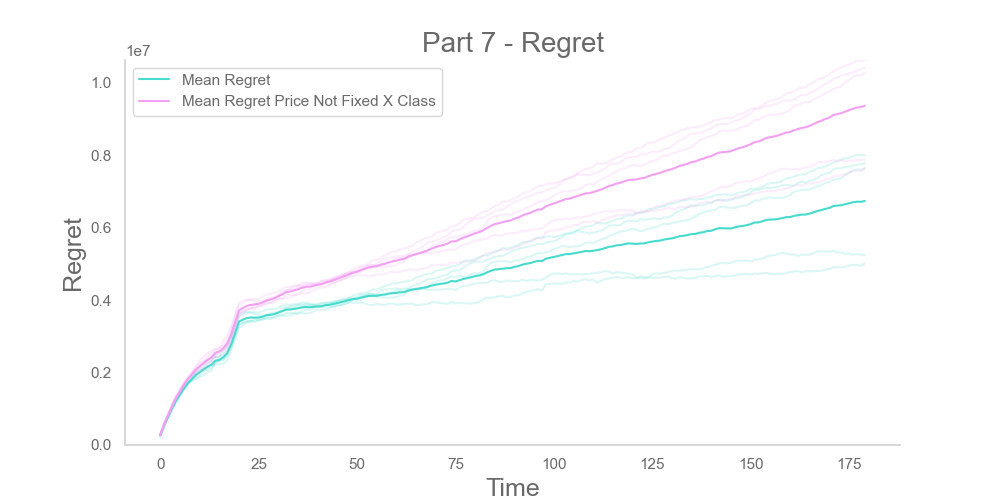
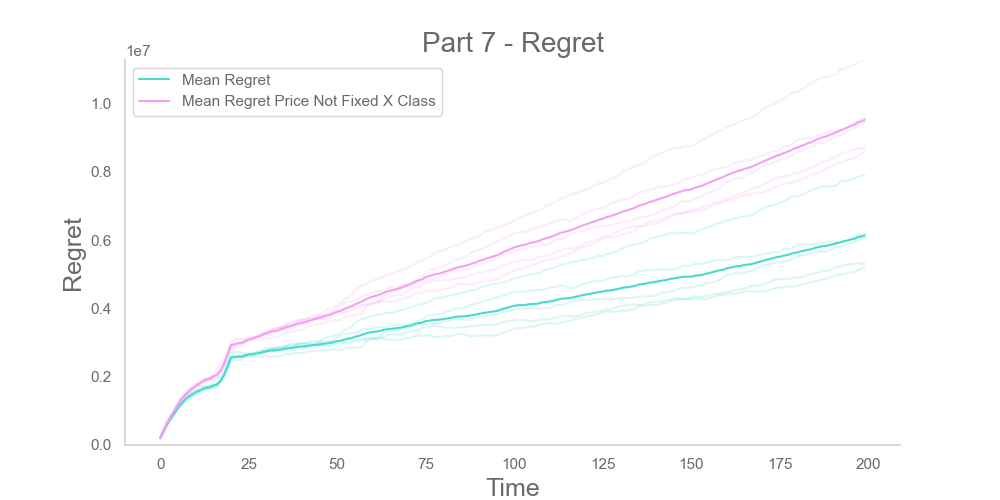
PART 7 - BINOMIAL

diff --git a/project/part_7_binomial/Testing_Env_7.py b/project/part_7_binomial/Testing_Env_7.py
@@ -18,7 +18,7 @@ def test_part7(n_experiments=10,
                artificial_noise_ADV=5,
                artificial_noise_CR=0.05,
                results_chart_path='other_files/testing_part7_regrets.png',
-               results_chart_title='Part 7 - Regret'):
+               results_chart_title='Part 7 BINOMIAL - Regret'):
     # one product to sell
     product = Product(product_config=product_config)
 
@@ -70,18 +70,13 @@ def test_part7(n_experiments=10,
         results = pool.map(execute_experiment, args, chunksize=1)
 
     regret_per_experiment = []
-    regret_notfixed_per_experiment = []
     final_loss_per_experiment = []
-    final_loss_per_experiment_notfixed = []
 
     for result in results:
-        regret_notfixed_per_experiment.append(result[1])
-        regret_per_experiment.append(result[0])
-        final_loss_per_experiment.append(sum(result[0]))
-        final_loss_per_experiment_notfixed.append(sum(result[1]))
+        regret_per_experiment.append(result)
+        final_loss_per_experiment.append(sum(result))
 
     print('\n\nFINAL LOSS:', np.mean(final_loss_per_experiment))
-    print('\n\nFINAL NOT FIXED LOSS:', np.mean(final_loss_per_experiment_notfixed))
     print('\n\nMEAN LOSS:', np.mean(final_loss_per_experiment) / n_days)
 
     plt.title(results_chart_title, fontsize=20)
@@ -90,13 +85,9 @@ def test_part7(n_experiments=10,
         plt.plot(np.cumsum(regret), alpha=0.2, c='C2')
     plt.plot(np.cumsum(np.mean(regret_per_experiment, axis=0)), c='C2',
              label='Mean Regret')
-    for regret in regret_notfixed_per_experiment:
-        plt.plot(np.cumsum(regret), alpha=0.2, c='C1')
-    plt.plot(np.cumsum(np.mean(regret_notfixed_per_experiment, axis=0)), c='C1',
-             label='Mean Regret Price Not Fixed X Class')
     plt.xlabel('Time')
     plt.ylabel('Regret')
-    plt.ylim([0, np.max([np.max(final_loss_per_experiment), np.max(final_loss_per_experiment_notfixed)])])
+    plt.ylim([0, np.max(final_loss_per_experiment)])
     plt.legend()
     plt.savefig(results_chart_path)
     plt.show()
@@ -138,4 +129,4 @@ def execute_experiment(args):
 
 
 if __name__ == '__main__':
-    test_part7(n_experiments=1)
+    test_part7(n_experiments=5)

diff --git a/project/part_2/GPTS_Learner.py b/project/part_2/GPTS_Learner.py
@@ -8,12 +8,12 @@ from project.dia_pckg.plot_style.cb91visuals import *
 
 class GPTS_Learner(Learner):
 
-    def __init__(self, n_arms, arms):
-        super().__init__(n_arms)
+    def __init__(self, arms):
+        super().__init__(len(arms))
 
         alpha = 15.0
         self.arms = arms
-        self.means = np.zeros(n_arms)
+        self.means = np.zeros(len(arms))
         self.sigmas = np.full(self.means.shape, alpha)
         self.pulled_arms = []
 
@@ -39,9 +39,9 @@ class GPTS_Learner(Learner):
         self.update_observations(pulled_arm, reward)
         self.update_model()
 
-    def pull_arm(self):
-        sampled_values = np.random.normal(self.means, self.sigmas)
-        return np.argmax(sampled_values)
+    def pull_arm(self, arm):
+        sampled_value = np.random.normal(self.means[arm], self.sigmas[arm])
+        return sampled_value
 
     def pull_arm_sequence(self):
         sampled_values = np.random.normal(self.means, self.sigmas)

diff --git a/project/part_7_normal/Testing_Env_7.py b/project/part_7_normal/Testing_Env_7.py
@@ -16,10 +16,10 @@ from project.part_7_normal.FixedPriceBudgetAllocator import FixedPriceBudgetAllo
 def test_part7(n_experiments=10,
                demand_chart_path='other_files/testing_part7_demandcurves.png',
                demand_chart_title='Part 7 - Demand Curves',
-               artificial_noise_ADV=20,
+               artificial_noise_ADV=0,
                artificial_noise_CR=0,
                results_chart_path='other_files/testing_part7_regrets.png',
-               results_chart_title='Part 7 - Regret'):
+               results_chart_title='Part 7 NORMAL - Regret'):
     # one product to sell
     product = Product(product_config=product_config)
 

diff --git a/project/part_6/Advertising.py b/project/part_6/Advertising.py
@@ -17,7 +17,7 @@ class Advertising:
 
         self.env = bidding_environment
 
-        self.learner = GPTS_Learner(n_arms, self.env.bids)
+        self.learner = GPTS_Learner(self.env.bids)
 
         self.daily_clicks = 0
         self.optimal_clicks = self.get_optimal()
